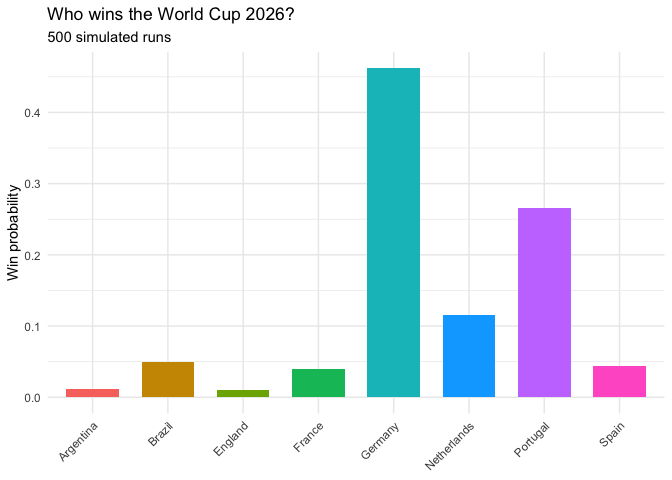
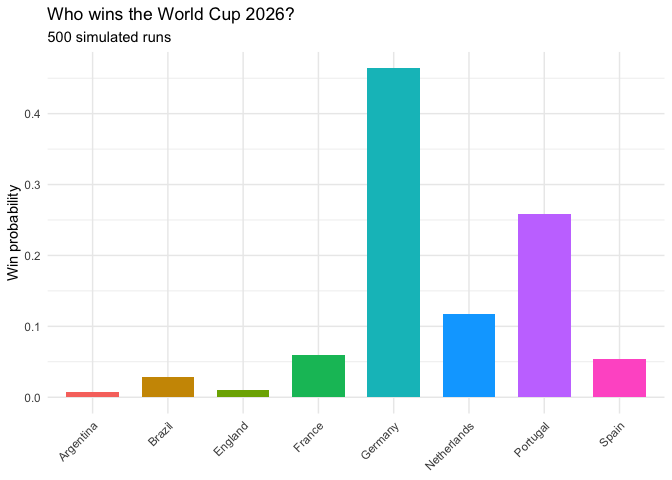
change to rmd

diff --git a/README.md b/README.md
@@ -6,12 +6,16 @@
 <!-- badges: start -->
 <!-- badges: end -->
 
-The top 8 teams in the world cup are relatively well-known by pundits,
+The top 8 teams in the world cup are relatively well-known to pundits,
 but a lot of uncertainty remains as to who will finally lift the trophy.
 The goal of worldcupR is to simulate a World Cup knockout tournament
 based on historical match data from previous world cups by focusing on
 teams’ historical scoring strength to predict the outcomes of the
-upcoming World Cup.
+upcoming World Cup. Simulations are run sequentially and in parallel
+across 500 runs. Functions to explore and plot a team’s historical
+record and for the final win probability simulated across the 500 runs
+are made available. Users of the package can switch the teams they would
+like to simulate in the knockout stages.
 
 ## Installation
 
@@ -48,7 +52,7 @@ team_summary("Brazil")
 #> 1 Brazil     114   76     19    19          237            108
 #simulate a tournament
 simulate_tournament(teams)$champion
-#> [1] "France"
+#> [1] "Germany"
 #run simulations (500) either sequentially or parallel
 winners_seq <- tournament_seq(teams)
 winners_par <- tournament_par(teams)
@@ -56,15 +60,15 @@ winners_par <- tournament_par(teams)
 table(winners_seq)
 #> winners_seq
 #>   Argentina      Brazil     England      France     Germany Netherlands 
-#>           6          25           5          20         231          58 
+#>           4          14           5          30         232          59 
 #>    Portugal       Spain 
-#>         133          22
+#>         129          27
 table(winners_par)
 #> winners_par
 #>   Argentina      Brazil     England      France     Germany Netherlands 
-#>           3          24           3          34         224          66 
+#>           6          20           5          27         211          71 
 #>    Portugal       Spain 
-#>         111          35
+#>         123          37
 
 bench1 <- microbenchmark::microbenchmark(
   tournament_par(teams),
@@ -90,5 +94,12 @@ win probability plots, see ‘worldcup_analysis.R’ in the project root
 
 <img src="man/figures/README-pressure-1.png" width="100%" />
 
-In that case, don’t forget to commit and push the resulting figure
-files, so they display on GitHub and CRAN.
+\#Functions
+
+`simulate_match()`: simulates a single match based on historical scoring
+strength `simulate_tournament()`: simulates a single knockout tournament
+`tournament_seq()`: runs 500 simulations sequentially
+`tournament_par()`: runs 500 simulations in parallel `team_summary()`:
+returns historical World Cup stats for a team `plot_team_history()`:
+plots a team’s match history `plot_win_probability()`: plots bar chart
+of win probabilities in the sequential MC simulation